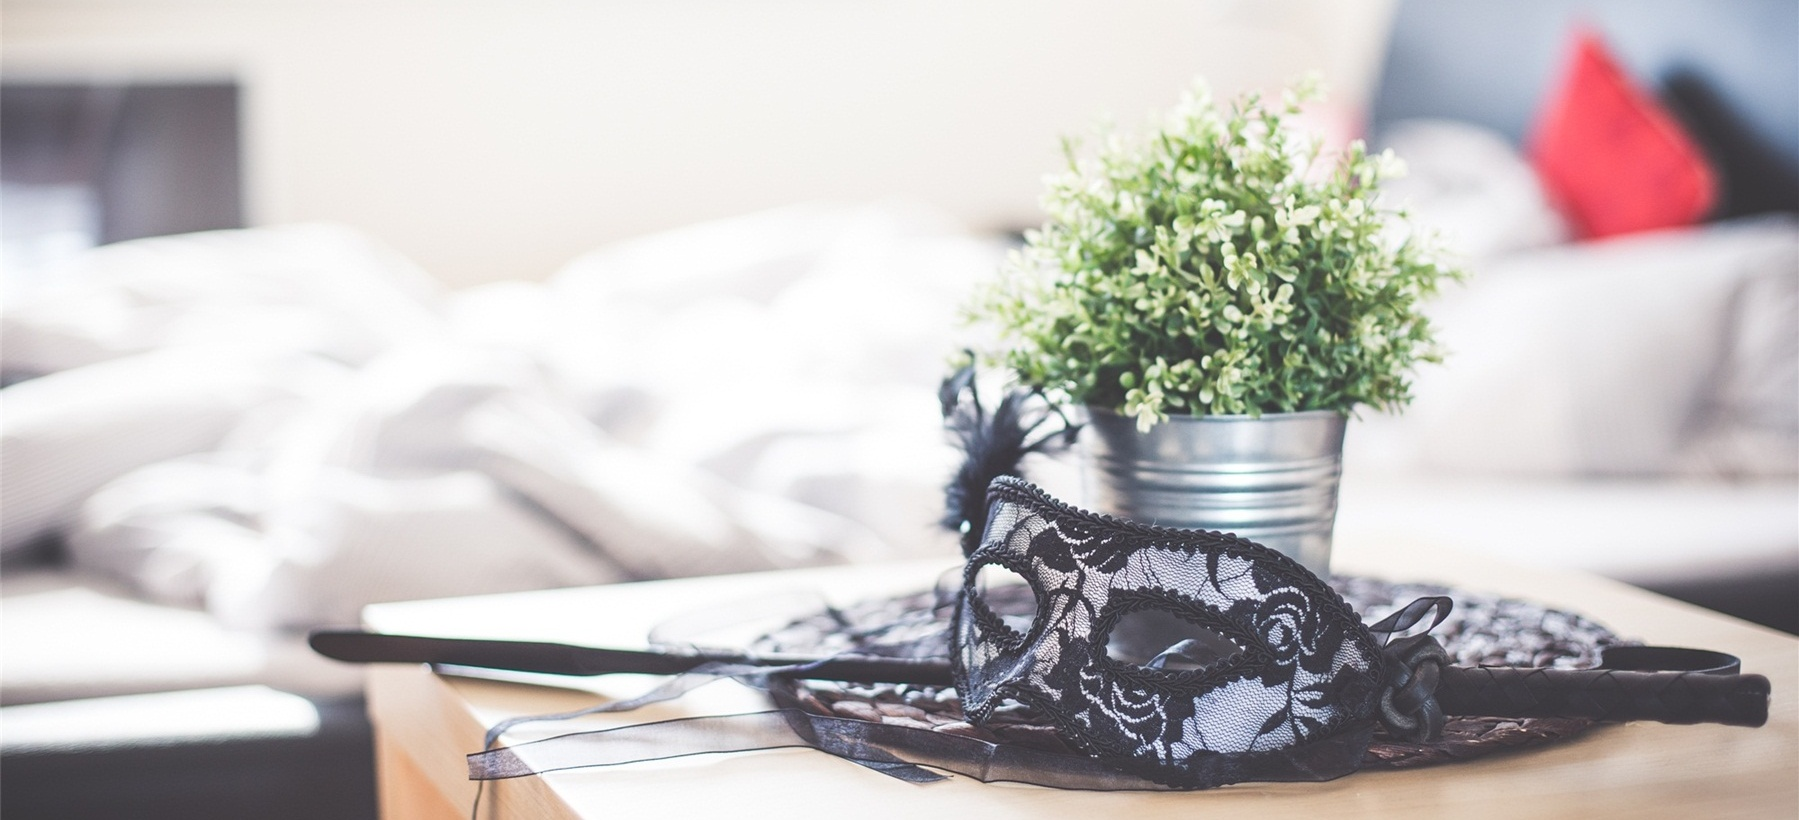
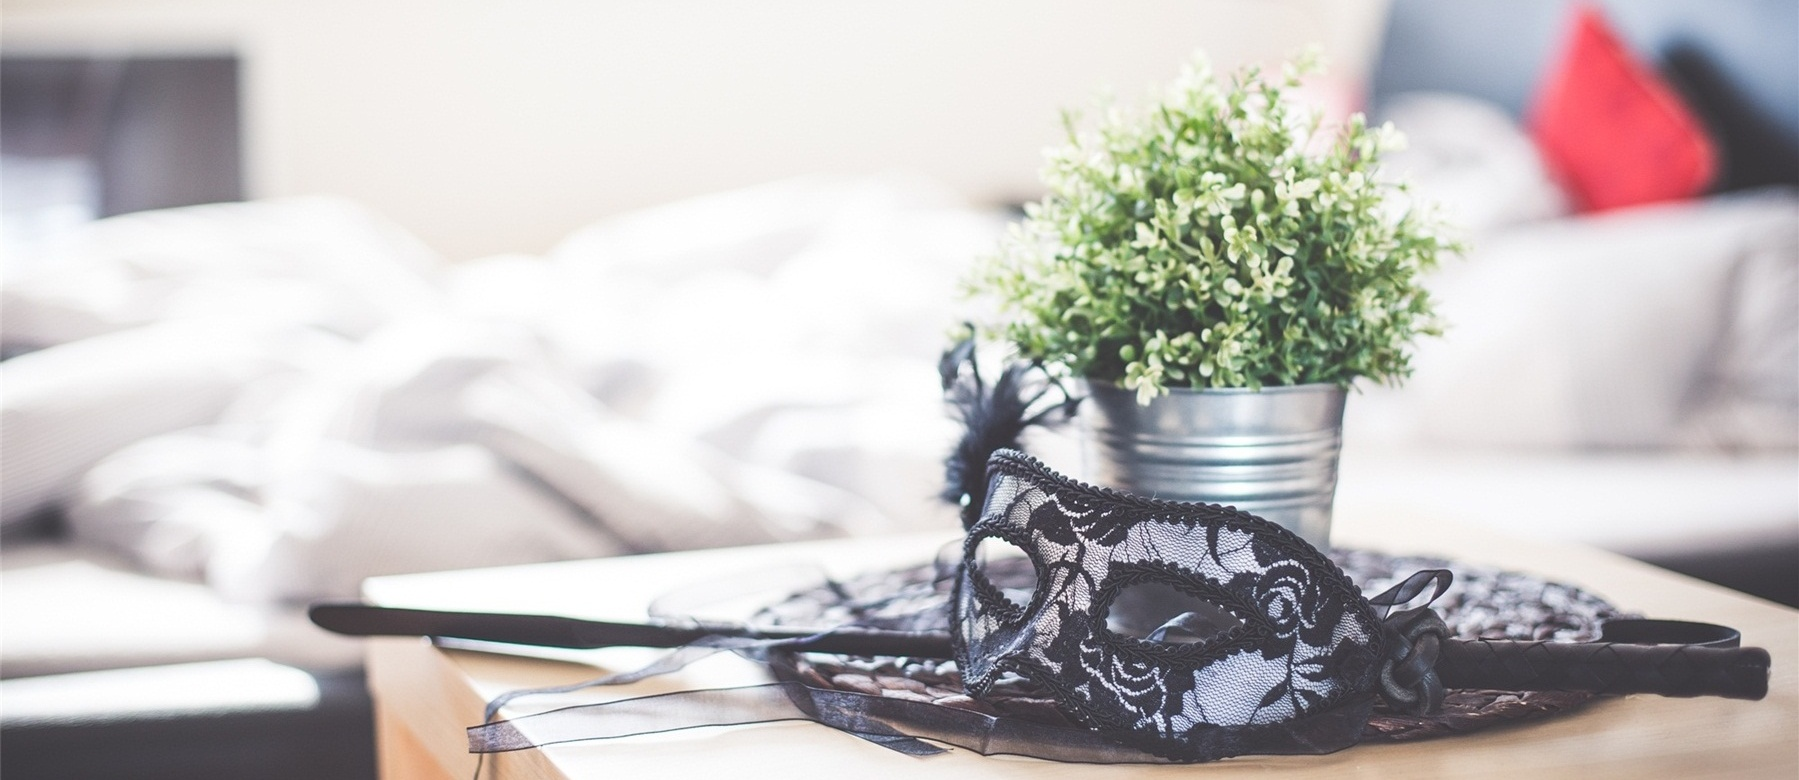
got ityy

diff --git a/css/hux-blog.min.css b/css/hux-blog.min.css
@@ -408,7 +408,7 @@ pre code {
 }
 
 .intro-header {
-    height: 650px;
+    height: 660px;
     background: no-repeat center center;
     background-color: gray;
     background-attachment: scroll;

diff --git a/css/hux-blog.css b/css/hux-blog.css
@@ -372,7 +372,7 @@ pre code {
   }
 }
 .intro-header {
-  height: 650px;
+  height: 660px;
   background: no-repeat center center;
   background-color: #808080;
   background-attachment: scroll;
